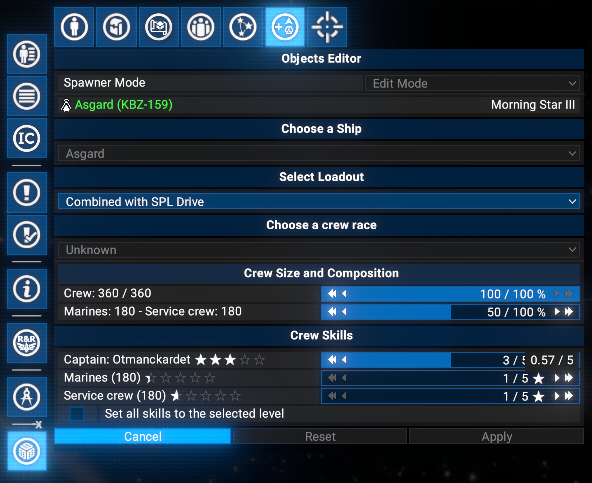
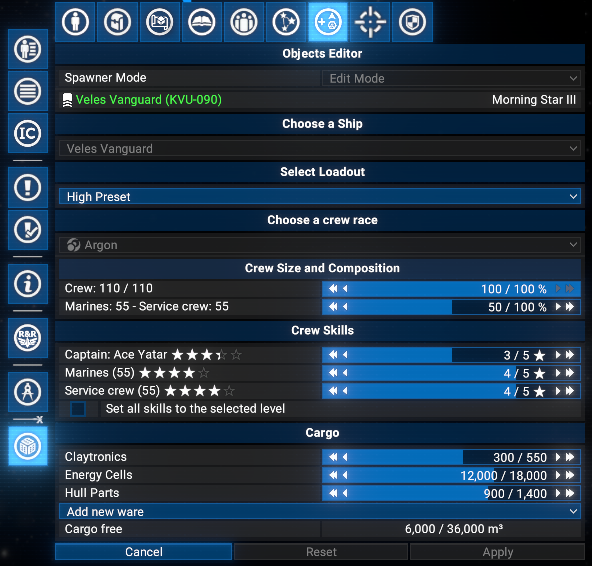
feat: Invincibility tab with the list of invincible objects
- New Invincibility tab: the Player Ship switch moved here from the Player tab, plus the list of ships and stations made invincible by right-click, with name, ID code, sector and a Remove button; a list of more than 180 objects shows no buttons
- Right-click on a list row opens the object's context menu, as in the map's object list
- Right-click Make Invincible / Remove Invincibility only while the Invincibility tab is open
- A Remove clicked twice on the same row no longer makes the object invincible again
- Invincible Ship tooltip fixed: a ship loses the protection when the player stops piloting it
- Texts for the new tab in all languages
- docs: Invincibility and ship cargo screenshots added, Edit Ship screenshot retaken with cargo

diff --git a/README.md b/README.md
@@ -24,6 +24,7 @@ Take in account: id of the mod and folder is changed to `safe_cheat_panel`.
 - **Spawner Tab**: Spawn stations - from a construction plan, armed at a loadout preset, or as a pre-built installation - plus ships (loadout, crew skills, job assignment, cargo) and deployable objects. Player stations can be given a manager, a ship trader and a starting workforce - none of which the game assigns itself.
 - **Editor**: The same tab edits existing objects. Right-click a player-owned ship or station to load it in, then set crew skills, re-equip it, change a ship's cargo, fill empty control posts or set its workforce. In extended mode any ship's cargo can be changed.
 - **Destroy Object Tab**: Destroy any destructible map object, selected via the right-click context menu, with a confirmation checkbox before the button arms.
+- **Invincibility Tab**: Make ships and stations invincible via the right-click context menu, see and release them in one list, and switch on invincibility for the ship the player pilots and the spacesuit.
 - **Right-click context menu**: Spawn station, fix station, spawn ships, spawn objects, edit ship, edit station, force station build completion (current and all faction stations), restock station and station build storage (current and all faction stations), fill station storage (current and all faction stations), teleport the piloted ship or the station the player stands on, teleport player, reveal all stations in sector, clear the fog of war in sector, destroy object, make invincible.
 - **Two modes**: **Normal** (player-owned spawns only) and **Extended** (NPC-faction-owned spawns, additional faction options) - switchable via Extension Options.
 - **Compatible with X4 8.00 and 9.00**.
@@ -58,7 +59,6 @@ Open the map and click the **Safe Cheat Panel** icon in the left sidebar to open
 - Set player money (0 - 1 quadrillion).
 - Add spacesuit upgrades.
 - Add spacesuit ammo (0 - 10,000).
-- **Invincible Ship**: the ship the player pilots and the player's spacesuit take no hull damage. A ship loses the protection as soon as the player stops piloting it. Right-click **Remove Invincibility** on that ship turns the switch off.
 
 ![Player Money and Spacesuit Upgrades](docs/images/player_money_and_spacesuit_upgrades.png)
 
@@ -156,6 +156,7 @@ A **Reveal All** button reveals every sector at all levels at once.
 - Optionally set Pilot/Captain, Marines and Service Crew skill levels via 1-5 star sliders. Left off, the crew keeps the loadout preset's randomised range.
   - ![Pilot and Crew Skills](docs/images/crew_skills.png)
 - Optionally load cargo: pick wares from **Add new ware** - only those the ship's hold can carry - and set each amount with its slider. A new ware starts with all the space still free; the free space of the hold is shown below the list. Every spawned ship gets the same cargo.
+  - ![Ship Cargo](docs/images/ship_cargo.png)
 
 - Set the number of ships per row (up to 10) and the number of rows (up to 10).
 
@@ -224,6 +225,14 @@ In both cases:
 
 ![Destroy Object](docs/images/object_destroy.png)
 
+### Invincibility Tab
+
+- **Invincible Ship**: the ship the player pilots and the player's spacesuit take no hull damage. A ship loses the protection as soon as the player stops piloting it. Right-click **Remove Invincibility** on that ship turns the switch off.
+- **Invincible Objects**: every ship and station made invincible via the right-click **Make Invincible** action, which is only offered while this tab is open. Shows the name, ID code and sector of each. **Remove** releases the object; a list of more than 180 objects shows no **Remove** buttons. Right-clicking a row opens the object's context menu, as in the map's object list, with **Remove Invincibility** among its actions. The ship protected only by **Invincible Ship** is not listed.
+
+![Invincibility](docs/images/invincibility.png)
+![Invincibility Context Menu](docs/images/invincibility_context_menu.png)
+
 ### Right-click Context Menu on Map
 
 Right-clicking on the map gives access to the following actions, depending on the current panel mode and active tab:
@@ -247,7 +256,7 @@ Right-clicking on the map gives access to the following actions, depending on th
 - **Destroy Object**: Sets the clicked object as the target on the Destroy Object tab. Only offered while that tab is open. The player's own currently-piloted ship, gates, highway entry/exit gates, and super highways cannot be targeted.
 - **Edit Ship**: Loads the clicked ship into the Spawner tab for editing. Only offered while that tab is open, and only for player-owned ships; *in* **extended** *mode any ship, for its cargo only*. Stays available while another object is loaded, so you can switch targets directly.
 - **Edit Station**: Loads the clicked station into the Spawner tab for editing. Only offered while that tab is open, and only for player-owned stations. Stays available while another object is loaded.
-- **Make Invincible** / **Remove Invincibility**: Switches full invincibility on or off for the clicked ship or station: no hull damage to the object, a ship's engines, shields and turrets, or a station's modules, turrets and shields; shield strength still drops and recharges. Modules and equipment added later are covered too. Only offered while the Spawner tab is open. Player-owned ships and stations; *in* **extended** *mode any ship or station*.
+- **Make Invincible** / **Remove Invincibility**: Switches full invincibility on or off for the clicked ship or station: no hull damage to the object, a ship's engines, shields and turrets, or a station's modules, turrets and shields; shield strength still drops and recharges. Modules and equipment added later are covered too. Only offered while the Invincibility tab is open. Player-owned ships and stations; *in* **extended** *mode any ship or station*.
 
 ### Extension Options
 
@@ -279,8 +288,7 @@ Debug logging can be enabled to write detailed information about the mod's opera
 ### [8.00.45] - 2026-11-??
 
 - **Added**
-  - Right-click **Make Invincible** for ships and stations, in the Spawner tab.
-  - Player tab: **Invincible Ship** for the piloted ship and the spacesuit.
+  - **Invincibility** tab: right-click **Make Invincible** for ships and stations, the list of invincible objects, and **Invincible Ship** for the piloted ship and the spacesuit.
   - Station Spawner: **Select Loadout** for pre-defined plans, from Empty to High Preset.
   - Ship Spawner and ship editing: **Cargo**, set ware by ware; in extended mode for any faction's ship.
 - **Fixed**
